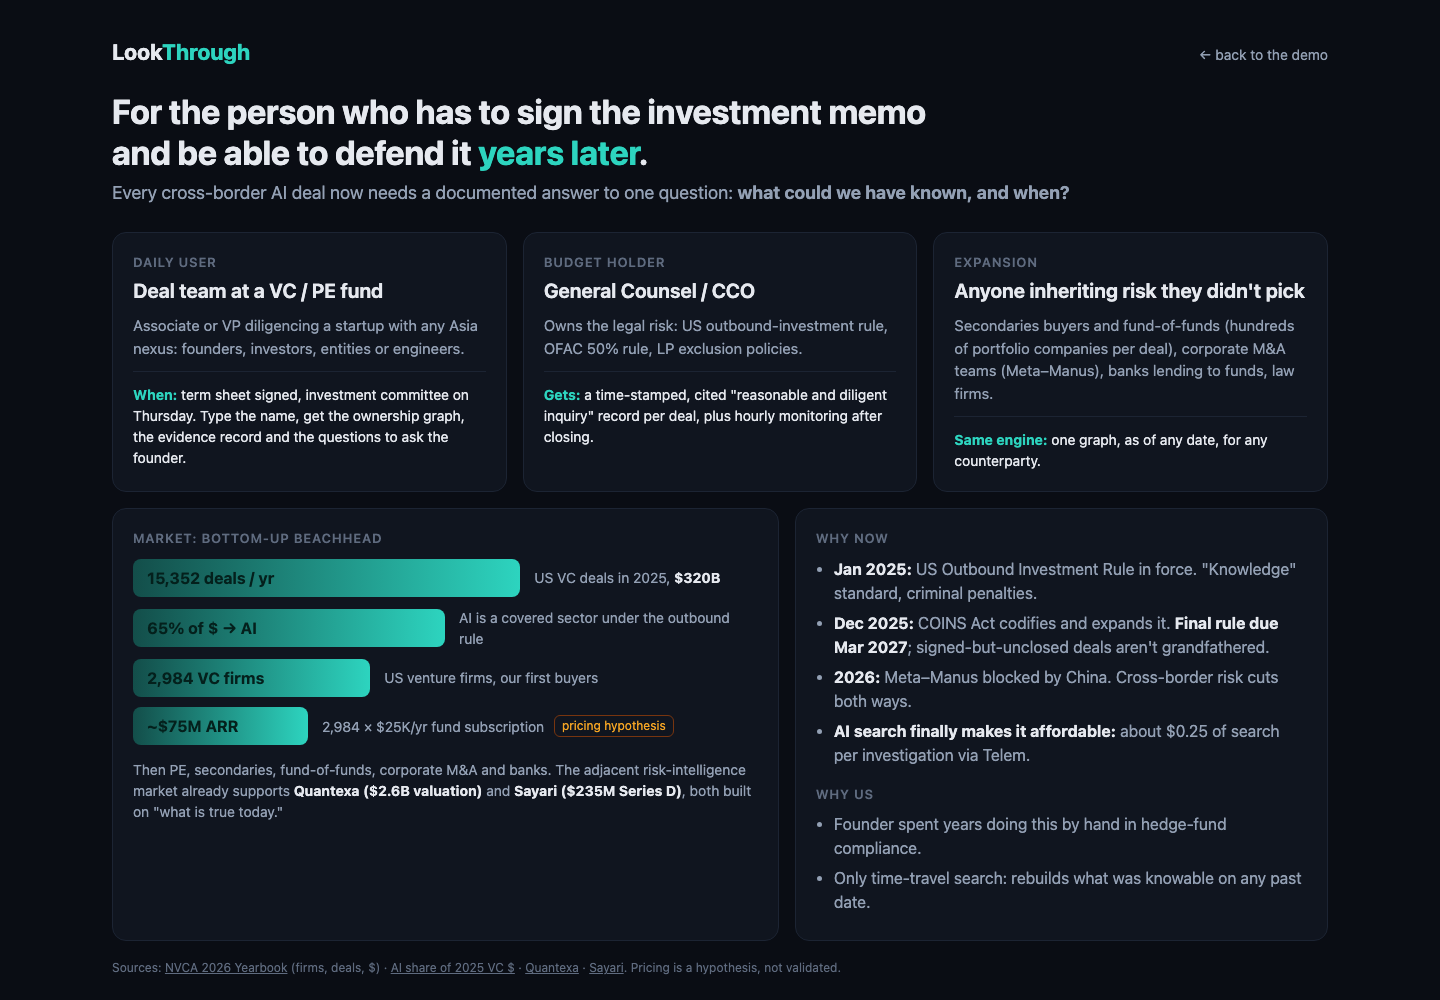
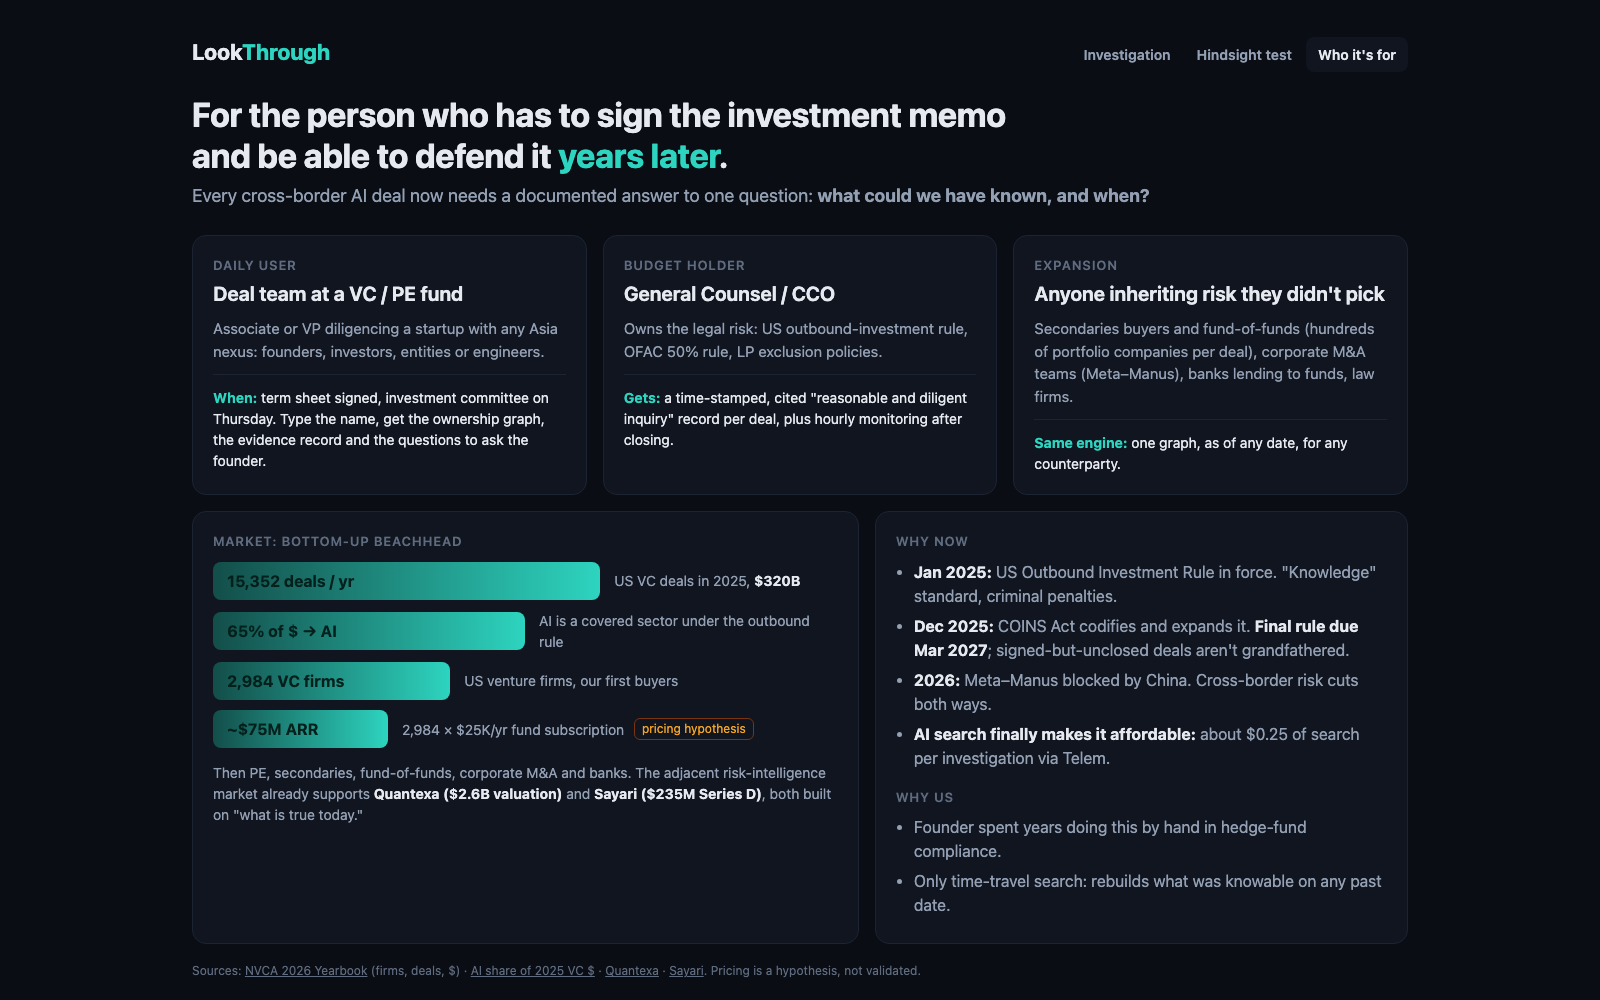
Declutter demo UI: chapter nav, slim toolbar, KPIs map to time-bounded/verified/connected

diff --git a/web/index.html b/web/index.html
@@ -25,12 +25,12 @@ header{height:58px;display:flex;align-items:center;gap:18px;padding:0 18px;borde
 .pill{font-size:12px;padding:4px 10px;border-radius:999px;border:1px solid var(--line);color:var(--muted);white-space:nowrap}
 .pill.ok{color:var(--accent);border-color:#134e4a}
 
-main{display:grid;grid-template-columns:250px 1fr 380px;grid-template-rows:1fr 232px;height:calc(100% - 58px)}
+main{display:grid;grid-template-columns:1fr 390px;grid-template-rows:1fr 232px;height:calc(100% - 58px)}
 #left{grid-row:1/3;border-right:1px solid var(--line);padding:16px;overflow:auto;background:var(--panel2)}
-#center{grid-column:2;grid-row:1;position:relative;min-height:0}
-#bottom{grid-column:2;grid-row:2;border-top:1px solid var(--line);display:flex;flex-direction:column;min-height:0}
-#detail{grid-column:3;grid-row:1;border-left:1px solid var(--line);padding:16px 18px;overflow:auto}
-#telem{grid-column:3;grid-row:2;border-left:1px solid var(--line);border-top:1px solid var(--line);padding:12px 16px;overflow:auto;background:var(--panel2)}
+#center{grid-column:1;grid-row:1;position:relative;min-height:0}
+#bottom{grid-column:1;grid-row:2;border-top:1px solid var(--line);display:flex;flex-direction:column;min-height:0}
+#detail{grid-column:2;grid-row:1;border-left:1px solid var(--line);padding:16px 18px;overflow:auto}
+#telem{grid-column:2;grid-row:2;border-left:1px solid var(--line);border-top:1px solid var(--line);padding:12px 16px;overflow:auto;background:var(--panel2)}
 
 label{display:block;font-size:11px;text-transform:uppercase;letter-spacing:.7px;color:var(--dim);margin:14px 0 6px}
 input,textarea,select{width:100%;background:var(--panel);border:1px solid var(--line);color:var(--text);border-radius:8px;padding:9px 10px;font:inherit;font-size:13px}
@@ -45,7 +45,7 @@ details{margin-top:12px}summary{cursor:pointer;color:var(--muted);font-size:12px
 .note{color:var(--dim);font-size:11px;margin-top:18px;line-height:1.5}
 
 #cy{position:absolute;inset:0}
-.kpis{position:absolute;top:14px;left:16px;right:16px;display:flex;gap:10px;z-index:2;pointer-events:none}
+.kpis{position:absolute;top:62px;left:16px;right:16px;display:flex;gap:10px;z-index:2;pointer-events:none}
 .kpi{background:#0d121bcc;backdrop-filter:blur(6px);border:1px solid var(--line);border-radius:12px;padding:9px 14px;min-width:120px}
 .kpi b{display:block;font-size:22px;font-weight:700;line-height:1.15}
 .kpi span{font-size:11.5px;color:var(--muted)}
@@ -106,52 +106,55 @@ table{width:100%;border-collapse:collapse;font-size:12.5px;margin-top:6px}td{pad
 .bar{display:grid;grid-template-columns:120px 1fr 34px;gap:8px;align-items:center;font-size:11.5px;color:var(--muted);margin-top:3px}
 .bar i{display:block;height:6px;border-radius:3px;background:var(--accent)}
 .big{font-size:13px;color:var(--text);margin-top:6px}.big b{color:var(--accent);font-size:16px}
+nav.chap{display:flex;gap:2px;margin-left:10px}
+nav.chap a{color:var(--muted);font-size:13px;font-weight:600;padding:7px 12px;border-radius:8px;text-decoration:none}
+nav.chap a.on{color:var(--text);background:var(--panel)}
+nav.chap a:hover{color:var(--text)}
+.toolbar{position:absolute;top:12px;left:16px;z-index:3;display:flex;gap:8px;align-items:center}
+.toolbar input{width:200px;padding:7px 10px}.toolbar input[type=date]{width:150px}
+.toolbar .btn{width:auto;margin:0;padding:7px 14px}
+.toolbar details{margin:0;position:relative}
+.toolbar summary{list-style:none;border:1px solid var(--line);border-radius:8px;padding:6px 10px;color:var(--muted);font-size:13px}
+.toolbar summary::-webkit-details-marker{display:none}
+.toolbar .pop{position:absolute;top:38px;left:0;width:320px;background:var(--panel);border:1px solid var(--line);border-radius:12px;padding:4px 14px 14px;box-shadow:0 12px 30px #0008}
+.kpi small{display:block;font-size:10px;text-transform:uppercase;letter-spacing:.7px;color:var(--dim);margin-bottom:1px}
+.disclaimer{color:var(--dim);font-size:11px;margin-top:18px;line-height:1.5}
 </style>
 </head>
 <body>
 <header>
   <div class="logo">Look<span>Through</span></div>
-  <div class="tagline">Time-travel search: what was knowable, when, and how we know.</div>
+  <div class="tagline">Time-travel search</div>
+  <nav class="chap"><a class="on" href="/">Investigation</a><a href="/compare">Hindsight test</a><a href="/pitch">Who it's for</a></nav>
   <div class="spacer"></div>
   <div class="switch" id="viewSwitch" style="display:none"></div>
-  <a class="pill" href="/compare" style="color:var(--text)">Hindsight test →</a>
-  <a class="pill" href="/pitch" style="color:var(--text)">Who it's for →</a>
-  <span class="pill" id="telemPill">Telem</span>
 </header>
 <main>
-  <aside id="left">
-    <label>Company or fund</label>
-    <input id="root" value="Manus AI">
-    <label>As-of date <span style="text-transform:none;letter-spacing:0">(optional)</span></label>
-    <input id="asof" type="date">
-    <button class="btn" id="go">Run look-through</button>
-    <details>
-      <summary>Settings</summary>
-      <div class="row">
-        <div><label>Type</label><select id="kind"><option value="company">Company</option><option value="fund">Fund</option></select></div>
-        <div><label>Depth</label><select id="depth"><option>1</option><option selected>2</option><option>3</option></select></div>
-      </div>
-      <div class="row">
-        <div><label>Entities</label><input id="nodes" type="number" value="5" min="1" max="20"></div>
-        <div><label>Budget $</label><input id="budget" type="number" value="1" step="0.25"></div>
-      </div>
-      <label>Policy</label>
-      <textarea id="policy">US investor. Flag outbound-investment (China AI / semiconductors / quantum) exposure and sanctions. Exclude firearms, controversial weapons and mass-surveillance technology.</textarea>
-    </details>
-    <label style="margin-top:22px">Saved cases</label>
-    <div class="cases" id="runs"></div>
-    <div class="note">Screening signals for counsel review, not legal advice. Watchlists: OpenSanctions (OFAC, DoD 1260H, BIS, UN, UK, EU).</div>
-  </aside>
-
   <section id="center">
     <div id="cy"></div>
-    <div class="kpis" id="kpis" style="display:none">
-      <div class="kpi red"><b id="kFlag">0</b><span>entities flagged</span></div>
-      <div class="kpi"><b id="kMap">0</b><span>entities mapped</span></div>
-      <div class="kpi teal"><b id="kVer">–</b><span>claims verified in source</span></div>
-      <div class="kpi"><b id="kEng">0</b><span>engines via Telem</span></div>
+    <div class="toolbar">
+      <input id="root" value="Manus AI" aria-label="Company or fund">
+      <input id="asof" type="date" aria-label="As-of date" title="As-of date (optional): only evidence public on or before this date">
+      <button class="btn" id="go">Run</button>
+      <details><summary>Settings</summary><div class="pop">
+        <div class="row">
+          <div><label>Type</label><select id="kind"><option value="company">Company</option><option value="fund">Fund</option></select></div>
+          <div><label>Depth</label><select id="depth"><option>1</option><option selected>2</option><option>3</option></select></div>
+        </div>
+        <div class="row">
+          <div><label>Entities</label><input id="nodes" type="number" value="5" min="1" max="20"></div>
+          <div><label>Budget $</label><input id="budget" type="number" value="1" step="0.25"></div>
+        </div>
+        <label>Policy</label>
+        <textarea id="policy">US investor. Flag outbound-investment (China AI / semiconductors / quantum) exposure and sanctions. Exclude firearms, controversial weapons and mass-surveillance technology.</textarea>
+      </div></details>
     </div>
-    <div class="asof-banner" id="asofBanner"></div>
+    <div class="kpis" id="kpis" style="display:none">
+      <div class="kpi red"><small>Risk</small><b id="kFlag">0</b><span id="kFlagL">entities flagged</span></div>
+      <div class="kpi"><small>Connected</small><b id="kMap">0</b><span id="kMapL">entities linked</span></div>
+      <div class="kpi teal"><small>Verified</small><b id="kVer">–</b><span id="kVerL">claims quote-checked</span></div>
+      <div class="kpi"><small>Time-bounded</small><b id="kTime">today</b><span id="kTimeL">pick a date to time-travel</span></div>
+    </div>
     <div class="empty" id="empty"><b>Map who really stands behind a deal</b><span>Owners, investors and subsidiaries discovered live from the web, every claim quote-verified.</span></div>
     <div class="focus" id="focusBar" style="display:none">
       <span><i class="dot" style="background:var(--red)"></i>Red flag</span>
@@ -264,11 +267,15 @@ function applyFocus(final){
 }
 function kpis(){
   const ns=Object.values(S.nodes);
-  $("kFlag").textContent = ns.filter(n=>riskAt(n)!=="none").length;
-  $("kMap").textContent = ns.length;
+  const flagged=ns.filter(n=>riskAt(n)!=="none").length;
+  $("kFlag").textContent=flagged; $("kFlagL").textContent=S.cut?`flagged as of ${S.cut}`:"entities flagged";
+  const urls=ns.reduce((a,n)=>a+((n.stats||{}).urls||0),0);
+  $("kMap").textContent=ns.length; $("kMapL").textContent=urls?`entities from ${urls} sources`:"entities linked";
   const v=S.result&&S.result.verification;
-  $("kVer").textContent = v&&v.claims? `${Math.round(100*v.verified/v.claims)}%` : "–";
-  const m=S.meter; $("kEng").textContent = m? Object.keys(m.engines||{}).length : 0;
+  $("kVer").textContent=v&&v.claims?`${Math.round(100*v.verified/v.claims)}%`:"–";
+  $("kVerL").textContent=v&&v.claims?`${v.verified}/${v.claims} claims quote-checked`:"claims quote-checked";
+  if(S.asOf){ $("kTime").textContent=S.result?S.result.excluded_sources:"…"; $("kTimeL").textContent=`later sources excluded (≤ ${S.asOf})`; }
+  else { $("kTime").textContent="today"; $("kTimeL").textContent="pick a date to time-travel"; }
 }
 
 // ---------------- detail ----------------
@@ -297,7 +304,8 @@ function showNode(id){
       </div>`;}).join("") || `<div class="desc">No flags.</div>`}
     ${facts.length?`<details><summary>Verified facts (${facts.length})</summary><table>${facts.map(x=>`<tr><td>${esc(x[0])}</td><td>${esc(x[1])}</td></tr>`).join("")}</table></details>`:""}
     ${(n.sources||[]).length?`<details><summary>Sources read (${n.sources.length}, ranked by cross-engine agreement)</summary>${n.sources.map(s=>`<div class="src"><a href="${esc(s.snapshot||s.url)}" target="_blank">${esc((s.title||s.url).slice(0,60))}</a>${s.date?`<span>${esc(s.date)}</span>`:""}${s.engines.map(x=>`<span class="chip g">${esc(eng(x))}</span>`).join("")}</div>`).join("")}</details>`:""}
-    ${!readonly && r!=="none" && n.status!=="queued"?`<button class="ghost" onclick="monitor('${esc(n.name).replace(/'/g,"")}')">Monitor continuously with Telem</button>`:""}`;
+    ${!readonly && r!=="none" && n.status!=="queued"?`<button class="ghost" onclick="monitor('${esc(n.name).replace(/'/g,"")}')">Monitor continuously with Telem</button>`:""}
+    <div class="disclaimer">Screening signals for counsel review, not legal advice. Watchlists: OpenSanctions (OFAC, DoD 1260H, BIS, UN, UK, EU).</div>`;
 }
 function dedupe(evs){ const s=new Set(); return (evs||[]).filter(e=>{const k=e.url+"|"+e.quote; if(s.has(k)) return false; s.add(k); return true;}); }
 function evHTML(ev){
@@ -368,7 +376,7 @@ function coverage(){
 }
 function renderTelem(){
   const m=S.meter; if(!m){ return; }
-  $("tSess").textContent = m.session_id? "session "+m.session_id.slice(0,8) : "no session";
+  $("tSess").textContent = (Object.keys(m.engines||{}).length+" engines") + (m.session_id? " · session "+m.session_id.slice(0,8) : "");
   const routes=(m.routes||[]).slice(-3).reverse();
   const cov=coverage();
   const best=cov.by[0], pct=best&&cov.total? Math.round(100*best[1]/cov.total):null;
@@ -385,14 +393,13 @@ function renderTelem(){
 function log(msg){ const d=document.createElement("div"); d.innerHTML=msg; $("log").appendChild(d); $("log").scrollTop=1e9; }
 function reset(){
   if(es) es.close(); S=fresh(); cy.elements().remove(); $("log").innerHTML="";
-  $("empty").style.display="flex"; $("kpis").style.display="none"; $("focusBar").style.display="none"; $("asofBanner").style.display="none";
+  $("empty").style.display="flex"; $("kpis").style.display="none"; $("focusBar").style.display="none";
   $("detail").innerHTML='<div class="desc">Select an entity to see why it is flagged.</div>'; delete $("detail").dataset.node;
   $("slider").value=1000; $("cutLabel").textContent="today"; renderTimeline();
   $("tBody").innerHTML='Every search is routed by Telem to the engines best suited to the question.'; $("tSess").textContent="no session";
 }
 function handle(e){
   if(e.type==="start"){ S.runId=e.run_id; S.asOf=e.as_of||null;
-    if(S.asOf){ $("asofBanner").style.display="block"; $("asofBanner").textContent=`Time-travel: only evidence published on or before ${S.asOf}`; }
     log(`<b>start</b> ${esc(e.root)}${e.as_of?` as of ${esc(e.as_of)}`:""}`); applyCut(); }
   else if(e.type==="node") upsertNode(e.node);
   else if(e.type==="edge") addEdge(e.edge);
@@ -427,7 +434,6 @@ document.querySelectorAll(".tabs button").forEach(b=>b.onclick=()=>{
 
 async function loadRuns(){
   runsCache=await (await fetch("/api/runs")).json();
-  $("runs").innerHTML=runsCache.slice(0,8).map(r=>`<div onclick="openRun('${r.run_id}')">${esc(r.root)}<small>${r.as_of?`Time-travel to ${esc(r.as_of)}`:"Known today"} · ${r.nodes} entities · ${r.red} red</small></div>`).join("")||'<div class="desc">None yet.</div>';
   const root=S.result?S.result.root:(runsCache[0]&&runsCache[0].root);
   const same=runsCache.filter(r=>r.root===root);
   const today=same.find(r=>!r.as_of), past=same.find(r=>r.as_of);
@@ -440,9 +446,8 @@ async function loadRuns(){
 initCy();
 fetch("/api/health").then(r=>r.json()).then(h=>{
   readonly=!!h.readonly; const ok=String(h.telem).startsWith("ok");
-  $("telemPill").textContent= readonly?"Public demo · replay only": ok?"Telem connected":"Telem offline";
-  $("telemPill").className="pill "+(ok?"ok":"");
-  if(readonly){ $("go").disabled=true; $("go").textContent="Live runs disabled in public demo"; }
+  if(readonly){ $("go").disabled=true; $("go").textContent="Replay only"; $("go").title="Public demo: live runs are disabled"; }
+  else if(!ok){ $("go").title="Telem offline: runs fall back to Tavily"; }
   loadRuns().then(()=>{
     const q=new URLSearchParams(location.search);
     if(q.get("replay")) stream(`/api/replay/${q.get("replay")}?speed=${q.get("speed")||8}`);

diff --git a/web/pitch.html b/web/pitch.html
@@ -31,11 +31,14 @@ ul{margin:8px 0 0;padding-left:18px;color:var(--muted)}li{margin:6px 0}li b{colo
 .src{color:var(--dim);font-size:12px;margin-top:18px}
 .src a{color:var(--dim)}
 .tag{display:inline-block;font-size:12px;color:var(--amber);border:1px solid #78350f;border-radius:6px;padding:1px 7px;margin-left:6px;vertical-align:2px}
+nav.chap{display:flex;gap:2px;margin-left:auto}
+nav.chap a{color:#93a0b4;font-size:14px;font-weight:600;padding:7px 12px;border-radius:8px;text-decoration:none}
+nav.chap a.on{color:#e6e9ef;background:#10151f}nav.chap a:hover{color:#e6e9ef}
 </style>
 </head>
 <body>
 <div class="wrap">
-  <div class="top"><div class="logo">Look<span>Through</span></div><a class="back" href="/">← back to the demo</a>&nbsp;&nbsp;<a class="back" style="margin-left:16px" href="/compare">Hindsight test</a></div>
+  <div class="top"><div class="logo">Look<span>Through</span></div><nav class="chap"><a href="/">Investigation</a><a href="/compare">Hindsight test</a><a class="on" href="/pitch">Who it's for</a></nav></div>
   <h1>For the person who has to sign the investment memo<br>and be able to defend it <em>years later</em>.</h1>
   <p class="lead">Every cross-border AI deal now needs a documented answer to one question: <b>what could we have known, and when?</b></p>
 

diff --git a/web/compare.html b/web/compare.html
@@ -34,12 +34,15 @@ h1 em{font-style:normal;color:var(--accent)}
 .bottom{margin-top:18px;font-size:18px;text-align:center;color:var(--muted)}
 .bottom b{color:var(--text)}
 .foot{color:var(--dim);font-size:12px;margin-top:14px;text-align:center}
+nav.chap{display:flex;gap:2px;margin-left:auto}
+nav.chap a{color:#93a0b4;font-size:14px;font-weight:600;padding:7px 12px;border-radius:8px;text-decoration:none}
+nav.chap a.on{color:#e6e9ef;background:#10151f}nav.chap a:hover{color:#e6e9ef}
 </style>
 </head>
 <body>
 <div class="wrap">
   <div class="top"><div class="logo">Look<span>Through</span></div>
-    <div class="nav"><a href="/">Demo</a><a href="/pitch">Who it's for</a></div></div>
+    <nav class="chap"><a href="/">Investigation</a><a class="on" href="/compare">Hindsight test</a><a href="/pitch">Who it's for</a></nav></div>
   <h1>Smart AI search knows the ending. <em>That's the problem.</em></h1>
   <div class="q">Same question, same model (Claude Code): <b>"As of 2025-12-29</b>, what was publicly known about US scrutiny of investment in Manus AI, and was investor Tencent on any US government list?"</div>
 
